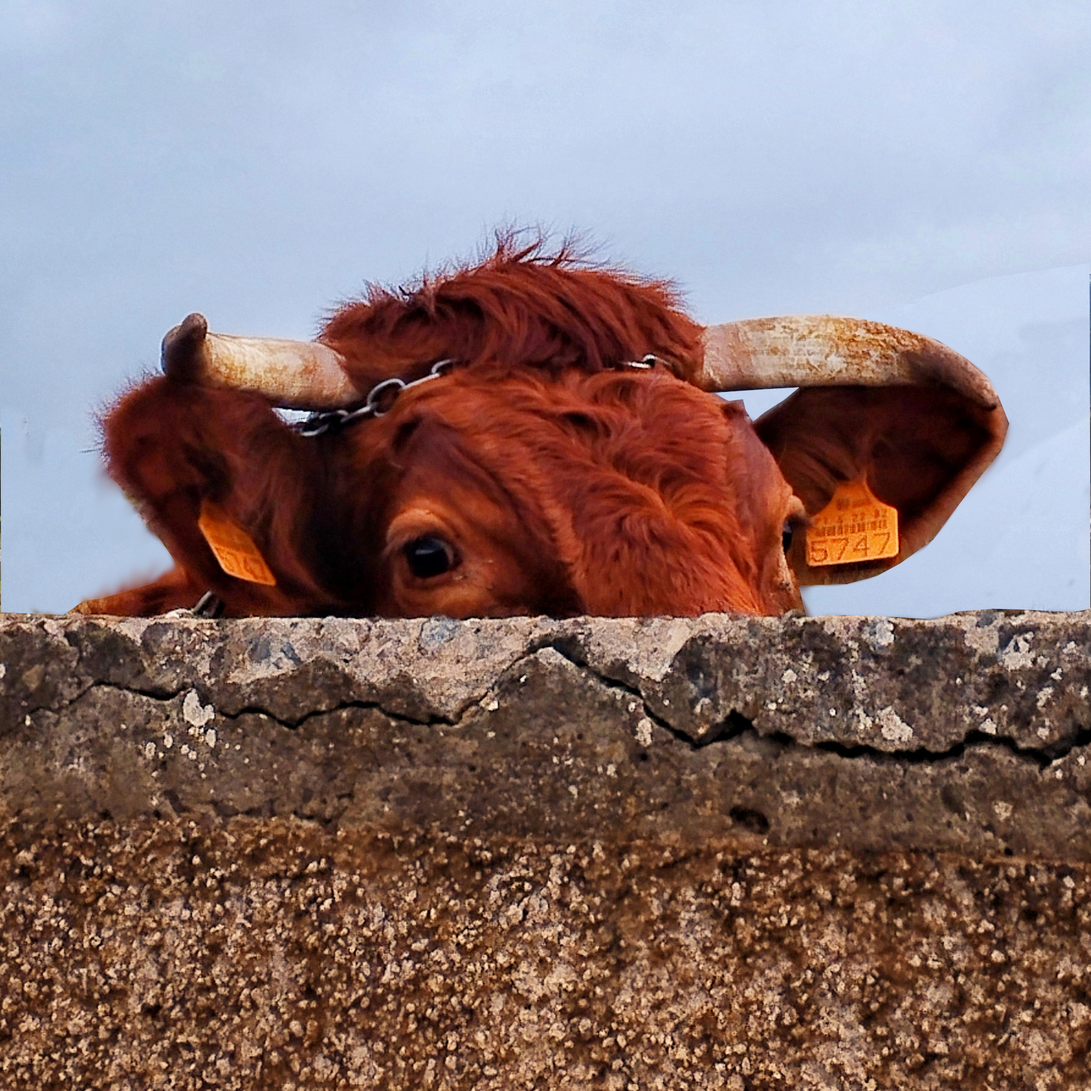
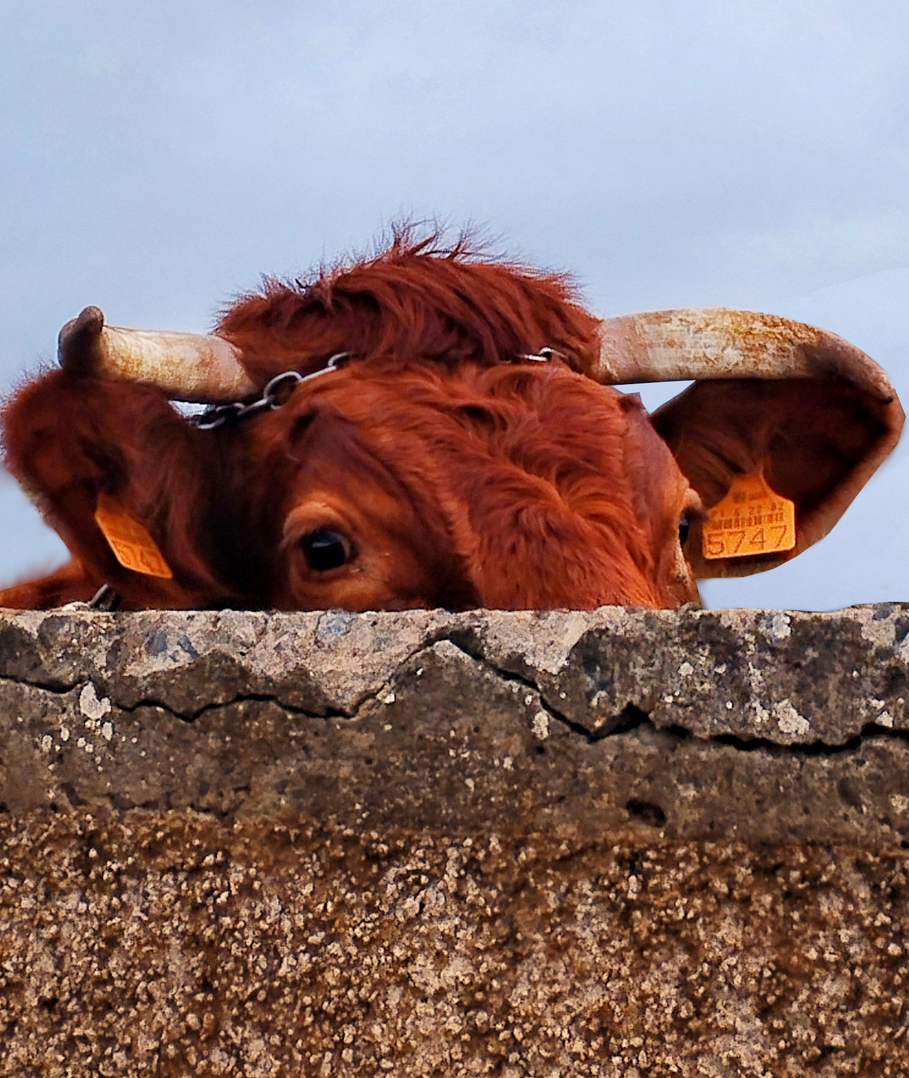
added image (temporary)

diff --git a/style.css b/style.css
@@ -3,6 +3,40 @@
   src: url(../fonts/Norse-Bold.otf);
 }
 
-h1 {
+.body {
+  margin: 0;
+  padding: 0;
+}
+
+.main {
+  display: flex;
+  flex-direction: row;
+  width: 100vh;
+  height: 100vh;
+}
+
+.left {
+  background-image: url(./img/cow-crop.jpeg);
+  width: 35vw;
+  background-repeat: no-repeat;
+  background-size: cover;
   font-family: Norse-Bold, sans-serif;
+}
+
+.right {
+  background: #455d7a;
+  display: flex;
+  flex-direction: column;
+}
+
+.first {
+  height: 40vh;
+}
+
+.second {
+  height: 30vh;
+}
+
+.third {
+  height: 30vh;
 }

diff --git a/index.html b/index.html
@@ -7,6 +7,15 @@
     <link rel="stylesheet" href="style.css" />
   </head>
   <body>
-    <h1>Hello</h1>
+    <div class="main">
+      <div class="left">
+        <h1>logo</h1>
+      </div>
+      <div class="right">
+        <div class="first">1</div>
+        <div class="second">2</div>
+        <div class="third">3</div>
+      </div>
+    </div>
   </body>
 </html>
